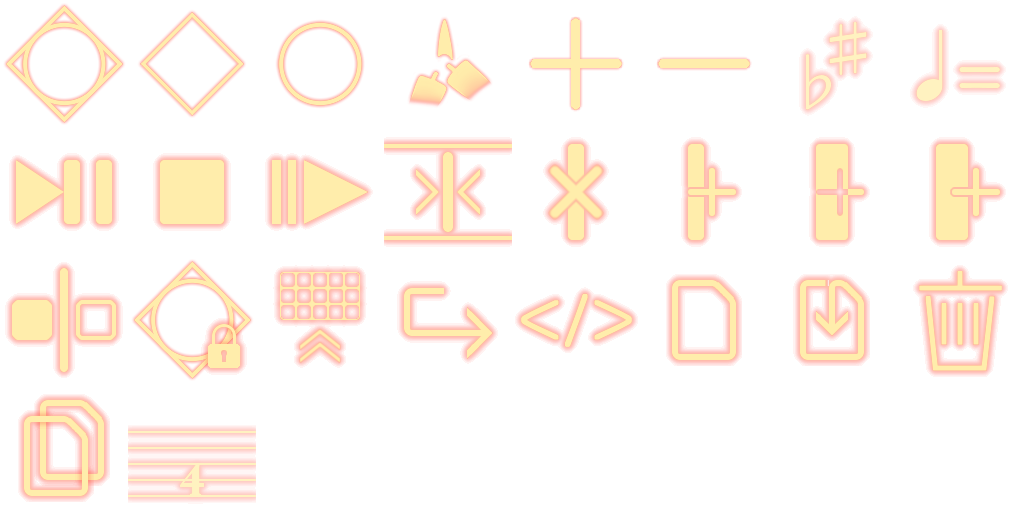
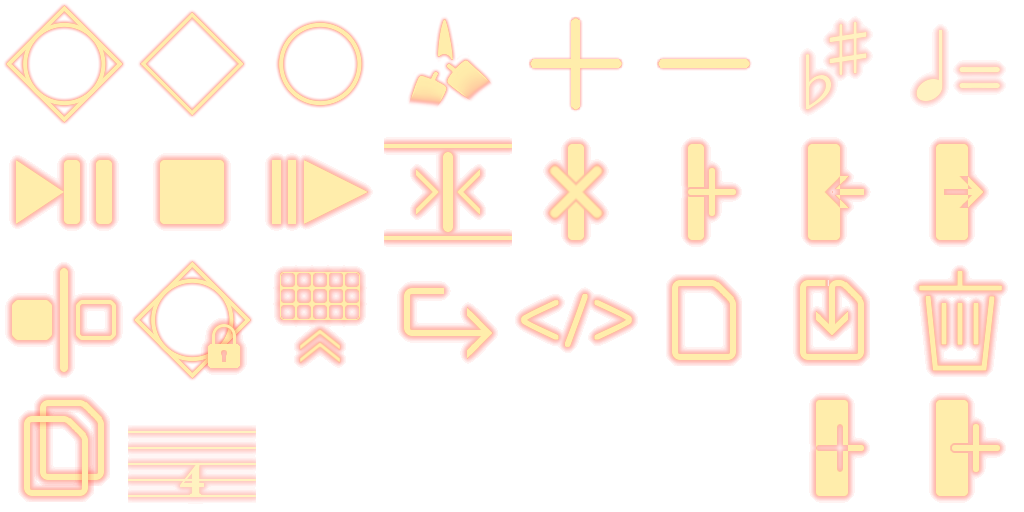
-

diff --git a/seq.html b/seq.html
@@ -34,7 +34,7 @@
 		:root{user-select:none;-webkit-user-select:none;}/*::-webkit-scrollbar{display:none;}*/
 		html,body{height:100%;margin:0;position:relative;}.clear_fix::after{content:"";clear:both;display:block;}
 
-		.dispPanel{position:relative;width:100vw;height:240px;border:6px solid #0000;border-left:none;border-right:none;touch-action:manipulation;background:#000a repeating-linear-gradient(#fffc,#fffc 16px,#fff8 16px,#fff8 48px,#fffa 48px,#fffa 64px,#fff8 64px,#fff8 80px,#fffa 80px,#fffa 96px,#fff8 96px,#fff8 112px);}
+		.dispPanel{position:relative;width:100vw;height:240px;overflow:hidden;border:6px solid #0000;border-left:none;border-right:none;touch-action:manipulation;background:#000a repeating-linear-gradient(#fffc,#fffc 16px,#fff8 16px,#fff8 48px,#fffa 48px,#fffa 64px,#fff8 64px,#fff8 80px,#fffa 80px,#fffa 96px,#fff8 96px,#fff8 112px);}
 		.dispPanel>*,#dispScr>*{position:absolute;line-height:16px;font-size:12px;}
 		#dispScr{width:100%;height:100%;overflow:scroll;position:relative;}#disp{padding:0 64px 0 16px;display:flex;}
 		#dispCur{width:16px;height:100%;background:#bff;left:17px;transition:.1s;border-radius:4px;}
@@ -45,7 +45,7 @@
 		.uiPanel{float:right;clear:right;max-width:312px;margin:2px 0;}
 		.grid{display:inline-block;width:48px;height:48px;margin:2px;background:#4448;color:#0000;text-shadow:none;border:none;border-radius:25%;box-shadow:0 0 8px #4448;text-align:center;vertical-align:middle;outline:none;font-size:18px;font-family:"M PLUS Rounded 1c",sans-serif;padding:0;touch-action:manipulation;}
 		.bg{background-image:url(img/seq.webp);background-size:800% auto;background-position:var(--bp);}.showtxt{color:#caf0f6;text-shadow:0 0 4px #688;}
-		#name_{font-size:large;background:#4448;width:calc(100% - 56px);height:48px;border-radius:12px;border:none;font-family:"M PLUS Rounded 1c",sans-serif;color:#caf0f6;text-shadow:0 0 4px #688;outline:none;padding:0;margin:2px;}
+		#name_{font-size:large;background:#4448;width:100%;max-width:148px;height:48px;border-radius:12px;border:none;font-family:"M PLUS Rounded 1c",sans-serif;color:#caf0f6;text-shadow:0 0 4px #688;outline:none;padding:0 2px;margin:2px;}
 
 		.kbPanel{position:relative;width:100%;max-width:360px;float:left;clear:left;backdrop-filter:blur(2px);-webkit-backdrop-filter:blur(2px);touch-action:none;}.kbPanel:before{content:"";display:block;padding-top:60%;}
 		#kb{position:absolute;top:0;left:0;right:0;bottom:0;perspective:1000px;background:#0004;border-radius:8px;overflow:hidden;}#kb input{position:absolute;display:none;}#kb>div{height:33.3%;margin:0;}
@@ -60,9 +60,10 @@
 
 		body>input[type="checkbox"]{display:none;}
 		#uiflip:checked~* .uiPanel{float:left;clear:left;}#uiflip:checked~* .kbPanel{float:right;clear:right;}
-		label[for="kblock"],label[for="pract"]{box-shadow:0 0 0 0 #fea inset;transition:.1s;}
-		#kblock:checked~* label[for="kblock"],#pract:checked~* label[for="pract"]{box-shadow:0 0 2px 4px #fea inset;}
+		label.grid{box-shadow:0 0 0 0 #fea inset;transition:.1s;}
+		#kblock:checked~* label[for="kblock"],#pract:checked~* label[for="pract"],#rawedit:checked~* label[for="rawedit"]{box-shadow:0 0 2px 4px #fea inset;}
 		#pract:checked~* .kbPanel{position:fixed;top:0;left:0;right:0;margin:0 auto;max-width:420px;}
+		#rawedit:checked~* #dispScr{transform-origin:126px;transform:rotateZ(90deg);}
 
 		.fg_{position:fixed;width:100%;height:100%;z-index:10;pointer-events:none;}
 		#alcb{display:none;}#alcb+label,#albox{opacity:0;pointer-events:none;transition:.2s;}
@@ -74,6 +75,7 @@
 		.nowebp .bg,.nowebp #kb p::after{background-image:url(img/seq.png);}
 	</style>
 	<style id="sty"></style><style id="styperf"></style>
+	<input type="checkbox" id="rawedit">
 	<input type="checkbox" id="uiflip">
 	<input type="checkbox" id="kblock">
 	<input type="checkbox" id="pract" onchange="kblock.checked=this.checked;">
@@ -89,13 +91,13 @@
 	</div>
 	<div class="clear_fix">
 		<div class="uiPanel">
-			         <button onclick="" class="grid bg" style="--bp:-400% -200%;">raw
-			</button><button onclick="userscr[0]=true;dispScr.scrollLeft=dispCur.getBoundingClientRect().left+dispScr.scrollLeft+window.scrollX-dispScr.clientWidth*.5;" class="grid bg" style="--bp:-300% -100%;">scroll to cursor
+			         <label for="rawedit" class="grid bg" style="--bp:-400% -200%;">edit raw
+			</label><button onclick="userscr[0]=true;dispScr.scrollLeft=dispCur.getBoundingClientRect().left+dispScr.scrollLeft+window.scrollX-dispScr.clientWidth*.5;" class="grid bg" style="--bp:-300% -100%;">scroll to cursor
 			</button><button class="grid bg" style="--bp:-200% -100%;transform:scaleX(-1);" onclick="tstep(-1);">back
 			</button><button onclick="ttoggle();" class="grid bg" style="--bp:0 -100%;">start/pause</button><button onclick="tstop();" class="grid bg" style="--bp:-100% -100%;">stop
 			</button><button class="grid bg" style="--bp:-200% -100%;" onclick="tstep(1);">forward
-			</button><button onclick="" class="grid bg" style="--bp:-300% -200%;transform:scaleX(-1);">undo
-			</button><button onclick="" class="grid bg" style="--bp:-300% -200%;">redo
+			</button><button onclick="" class="grid bg" style="--bp:-00% -00%;">copy
+			</button><button onclick="" class="grid bg" style="--bp:-00% -00%;">paste
 			</button><button class="grid bg" style="--bp:-400% -100%;">delete
 			</button><button class="grid bg" style="--bp:-500% -100%;">add
 			</button><button class="grid bg" style="--bp:-600% -100%;">add in
@@ -109,17 +111,18 @@
 			</div>
 		</div>
 		<div class="uiPanel">
-			        <label for="uiflip" class="grid bg" style="--bp:0 -200%;">flip ui
-			</label><label for="kblock" class="grid bg" style="--bp:-100% -200%;">lock keyboard
+			         <button onclick="" class="grid bg" style="--bp:-300% -200%;transform:scaleX(-1);">undo
+			</button><button onclick="" class="grid bg" style="--bp:-300% -200%;">redo
+			</button><label for="kblock" class="grid bg" style="--bp:-100% -200%;">lock keyboard
 			</label><label for="pract" class="grid bg" style="--bp:-200% -200%;">practice
 			</label><button onclick="" class="grid bg" style="--bp:-600% -200%;">save
 			</button><button onclick="Tone.Transport.pause();styperf.textContent='';load();" class="grid bg" style="--bp:-500% -200%;">load
-			</button><button onclick="alert(info);" class="grid bg" style="--bp:-300% 0;">info
 			</button><button onclick="main.bpm-=6;Tone.Transport.bpm.value-=6;bpm_.value=main.bpm;" class="grid bg" style="--bp:-500% 0;">slow
 			</button><label><input id="bpm_" class="grid bg showtxt" onchange="bpmset();" style="--bp:-700% 0;"></input></label><button onclick="main.bpm+=6;Tone.Transport.bpm.value+=6;bpm_.value=main.bpm;" class="grid bg" style="--bp:-400% 0;">fast
 			</button><button onclick="sc_.value=--main.sc;" class="grid bg" style="--bp:-500% 0;">down
 			</button><label><input id="sc_" class="grid bg showtxt" onchange="scset();" style="--bp:-600% 0;"></input></label><button onclick="sc_.value=++main.sc;" class="grid bg" style="--bp:-400% 0;">up
-			</button><label><input id="ts_" class="grid bg showtxt" onchange="tsset();" style="--bp:-100% -300%;"></input></label><label><input id="name_" onchange="nameset();" placeholder="untitled"></input></label>
+			</button><label><input id="name_" onchange="nameset();" placeholder="untitled"></input></label><label><input id="ts_" class="grid bg showtxt" onchange="tsset();" style="--bp:-100% -300%;"></input></label><label for="uiflip" class="grid bg" style="--bp:0 -200%;">flip ui
+</label><button onclick="alert(info);" class="grid bg" style="--bp:-300% 0;">info</button>
 		</div>
 		<div class="uiPanel">
 		</div>
@@ -158,7 +161,7 @@
 			}
 			llog(Tone.Transport.position);
 		},[],'4n').start(0),
-		info='in development\n\nPowerd by Tone.js\nAudio: GarageBand\n\nauthor:@SkyEringi\nbuild:2101281\nMIT License',
+		info='in development\n\nPowerd by Tone.js\nAudio: GarageBand\n\nauthor:@SkyEringi\nbuild:2101300\nMIT License',
 		llog=(x,c)=>{if(c)log.textContent='';log.textContent+=`${c?'':'\n'}${x}`;},
 		//url_o=(x)=>JSON.stringify(x).replace(/\"/g,"'").replace(/,/g,'.').replace(/\[/g,'(').replace(/\]/g,')'), url_i=(x)=>JSON.parse(x.replace(/'/g,'"').replace(/\./g,',').replace(/\(/g,'[').replace(/\)/g,']')),
 		mbxli=()=>{var s={};for(var i=3;i<=6;i++){s[`a${i}`]=`a${i}.mp3`;s[`d#${i+1}`]=`ds${i+1}.mp3`;}return s;},
